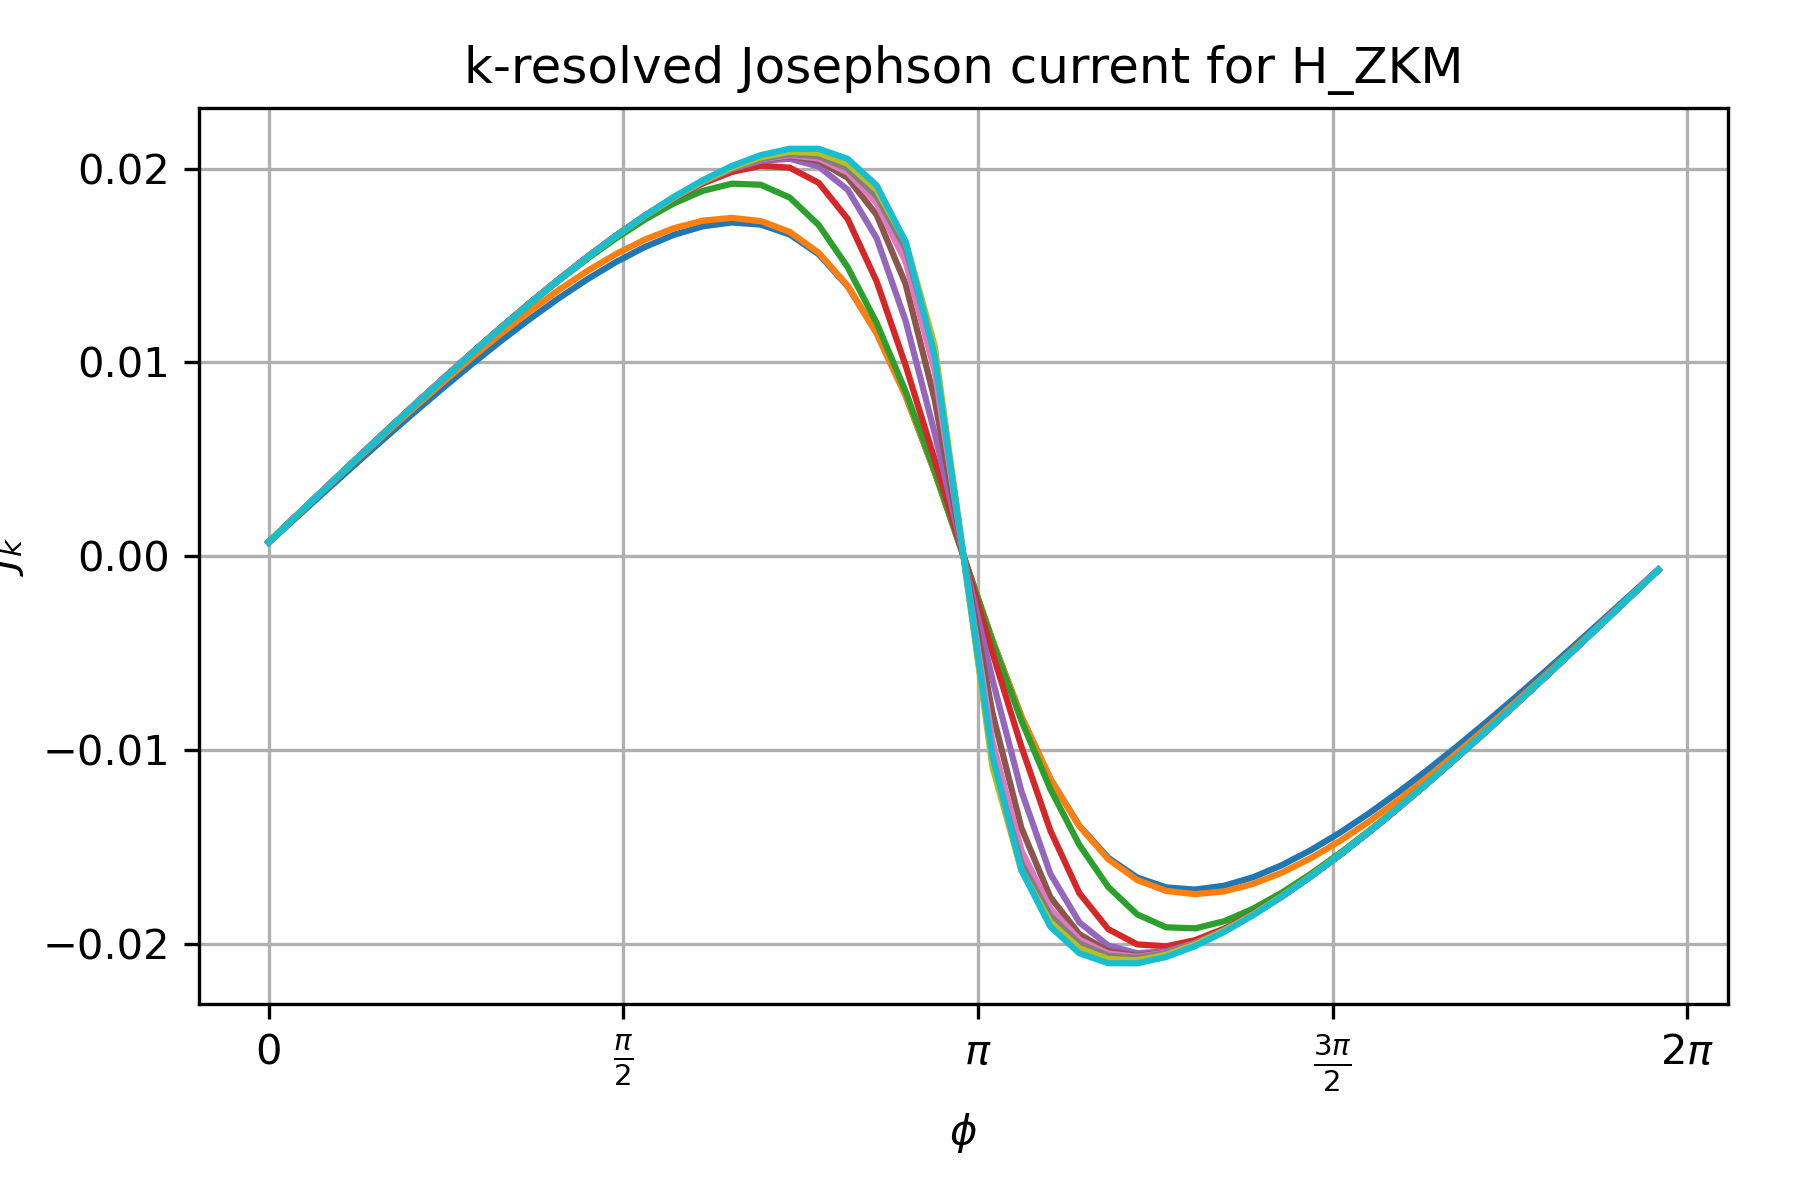
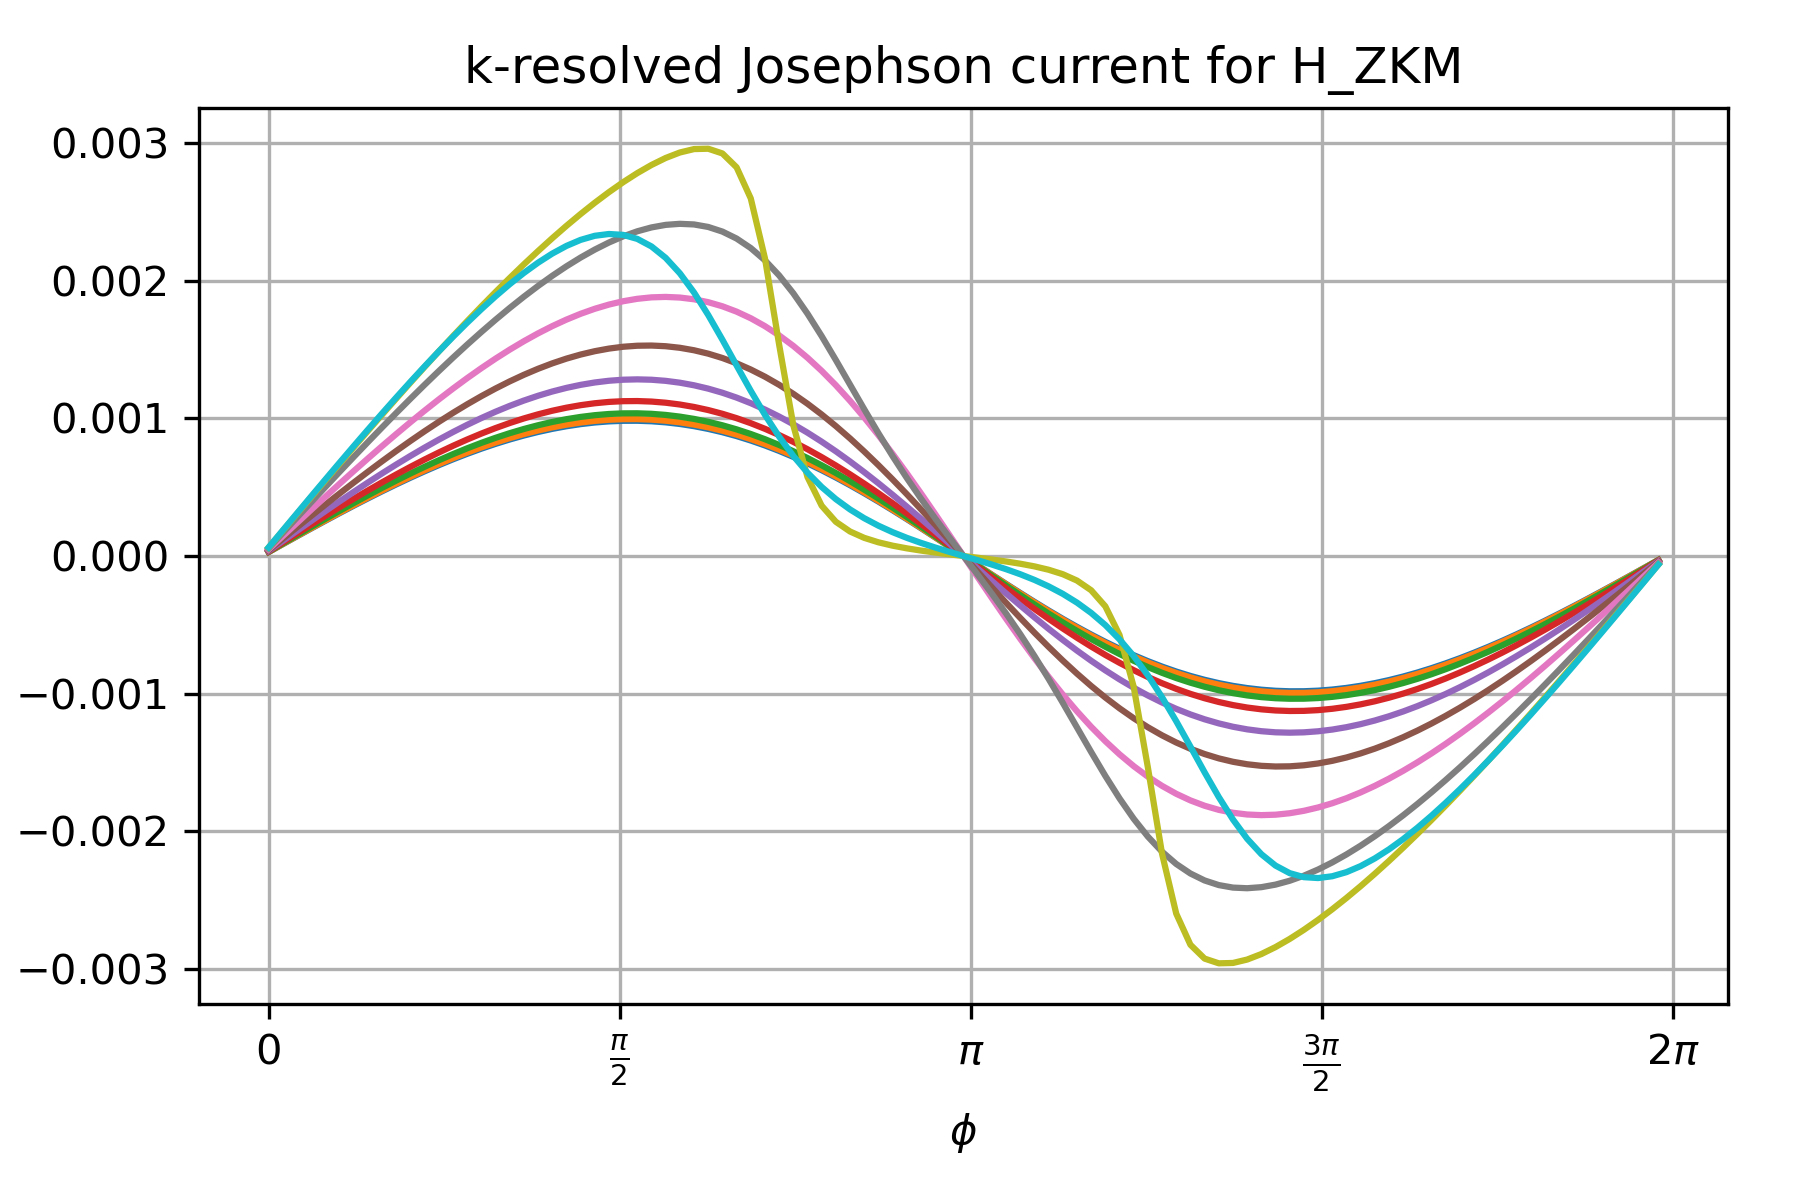
Hopping has been midified and a crossing in Josephson current has been found.

diff --git a/tritops_tritops.py b/tritops_tritops.py
@@ -21,6 +21,7 @@ tau_x = np.array([[0, 1], [1, 0]])
 tau_y = np.array([[0, -1j], [1j, 0]])
 tau_z = np.array([[1, 0], [0, -1]])
 
+#%%
 def J(phi, k, v=1):
     t = -1
     return 2*t**2 * np.cos(phi/2) * np.sin(phi/2) / np.sqrt((v*k)**2 + t**2*np.cos(phi/2)**2)
@@ -79,12 +80,12 @@ def onsite_Josephson_ZKM(site, mu, Delta_0, Delta_1, lambda_R, k):
 
 def hopping_Josephson_ZKM(site1, site2, t, Delta_0, Delta_1,lambda_R, phi, k):
     if (site1.pos == [0.0] and site2.pos == [-1.0]) or (site1.pos == [-1.0] and site2.pos == [0.0]):
-        return 2*t * (np.kron((tau_z + np.eye(2))/2, np.eye(2))*np.exp(1j*phi/2)
+        return t * (np.kron((tau_z + np.eye(2))/2, np.eye(2))*np.exp(1j*phi/2)
                     + np.kron((tau_z - np.eye(2))/2, np.eye(2))*np.exp(-1j*phi/2))
     else:
         return ( -t * np.kron(tau_z, np.eye(2)) -
-                1j*2*lambda_R * np.kron(tau_z, sigma_z) +
-                2*Delta_1 * np.kron(tau_x, np.eye(2)))
+                1j*lambda_R * np.kron(tau_z, sigma_z) +
+                Delta_1 * np.kron(tau_x, np.eye(2)))
                                                
 
 def make_Josephson_junction_ZKM(t=1, mu=0, Delta=1, L=25, phi=0):
@@ -125,7 +126,7 @@ mu = -2*t
 Delta_0 = -0.4*t
 Delta_1 = 0.2*t
 lambda_R = 0.5*t
-L = 10
+L = 50
 fig, ax = plt.subplots(dpi=300)
 ax.set_title("k-resolved Josephson current for H_ZKM")
 ax.set_xlabel(r"$\phi$")
@@ -138,7 +139,7 @@ ribbon_ZKM = make_Josephson_junction_ZKM(mu=mu, L=L)
 #kwant.plot(syst, site_color=site_color, hop_color=hop_color)
 ribbon_ZKM = ribbon_ZKM.finalized()
 phi = np.linspace(0, 2*np.pi, 100)
-for k in np.linspace(0, 0.5, 10):
+for k in np.linspace(0, 2*np.pi, 10):
     params = dict(t=t, mu=mu, Delta_0=Delta_0, Delta_1=Delta_1, lambda_R=lambda_R, L=L, phi=phi, k=k)
     #plot_spectrum(kitaev, mu)
     current = Josephson_current(ribbon_ZKM, params)
@@ -149,7 +150,7 @@ for k in np.linspace(0, 0.5, 10):
 #     current = Josephson_current(ribbon_ZKM, params)
 #     ax.plot(phi[:-1], current, label=f"k={k}")
 #plt.legend()
-fig.savefig(os.getcwd()+f"/Images/Josephson_H_ZKM_L={L}_near_k=0")
+#fig.savefig(os.getcwd()+f"/Images/Josephson_H_ZKM_L={L}_near_k=0")
 
 k = 0
 fig, ax = plt.subplots(dpi=300)
